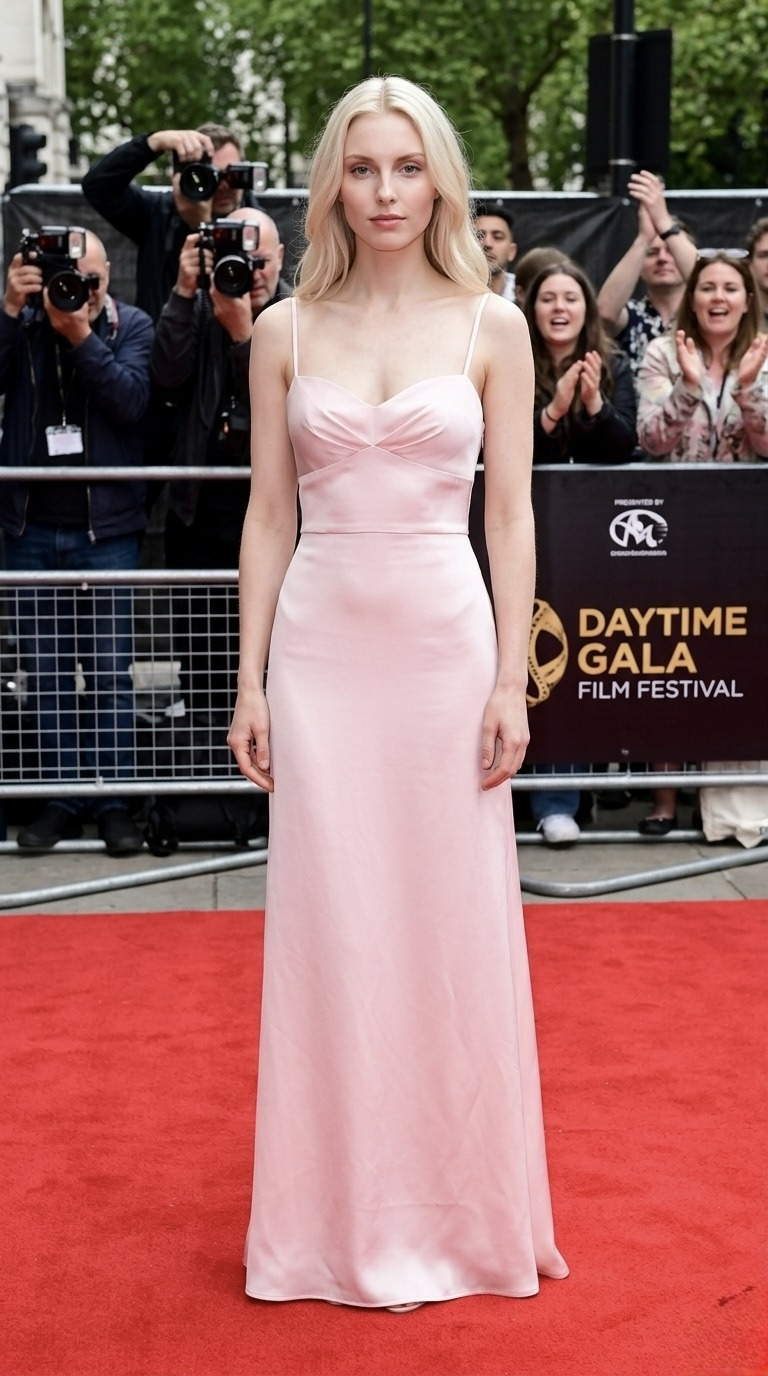
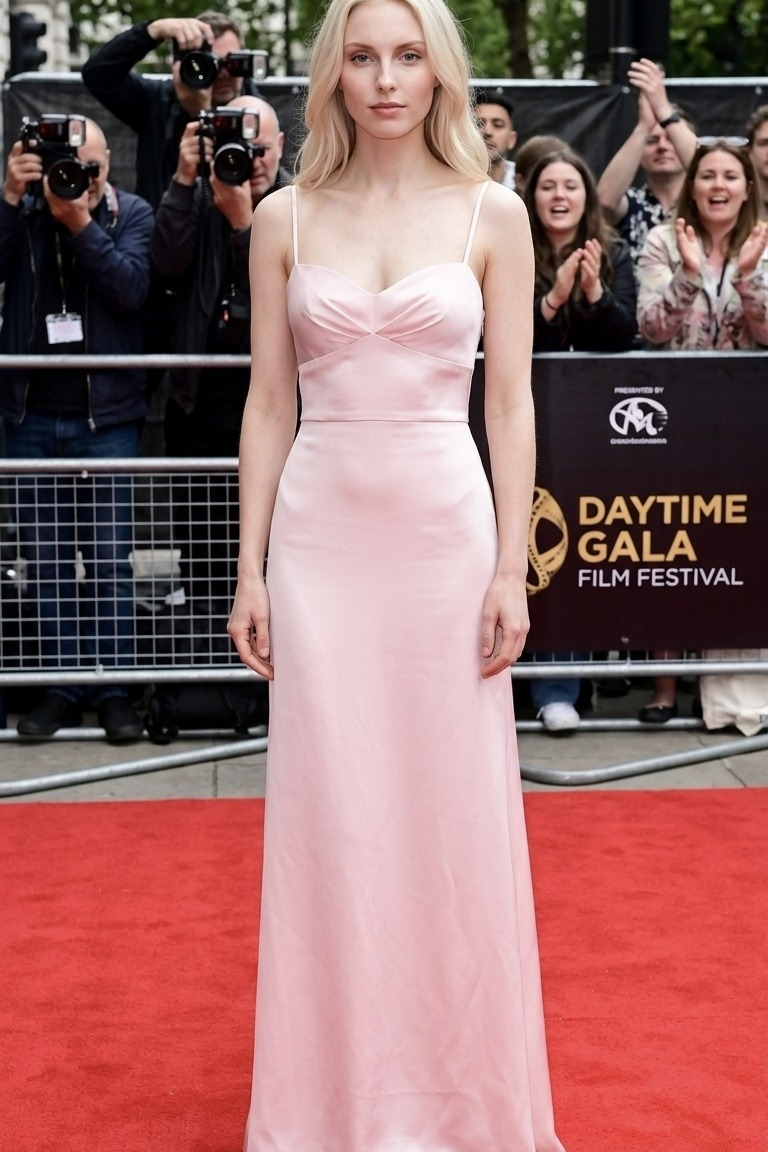
pins: corta a mads-carpet-pink-gown, e so ela
Pedido dela, peca por peca. As outras sete continuam inteiras.

O corte anterior estava errado e ela viu na hora: a ancora 'figura' que eu tinha
escrito puxava tudo de cima e decapitava a foto na altura dos olhos. Numa foto
de corpo inteiro o corte tem que conter a figura INTEIRA, cabeca e barra, e a
sobra sai de onde nao ha corpo. Aqui a sobra estava embaixo, no tapete vazio.

y0=112, metade em cima e metade embaixo: cabeca com respiro curto e a barra do
vestido intacta.

A foto inteira foi pra pins/originais/, que nasce agora com a mesma regra da
pins/marcadas/: a fonte nunca e sobrescrita.

Claude-Session: https://claude.ai/code/session_01NEtEnLQGn4TDmhJsiruHRq

diff --git a/pins/originais/LEIA.md b/pins/originais/LEIA.md
@@ -1,0 +1,11 @@
+# `pins/originais/` — a foto inteira, antes do corte
+
+Só entra aqui a foto que foi **cortada** pra caber em 2:3. A de cima, em `pins/`,
+é a que o feed serve; esta é a fonte, e é o que permite refazer o corte depois.
+
+Mesma relação da foto limpa com a marcada em `pins/marcadas/`, e do manuscrito
+com o EPUB: **a fonte nunca é sobrescrita.**
+
+⚠ Cortar é exceção, não é passo do fluxo. O padrão é foto inteira, em tamanho
+variado, decidido pela autora em 15/08 e repetido em 27/08. Esta pasta só cresce
+quando ela pede um corte, peça por peça.
